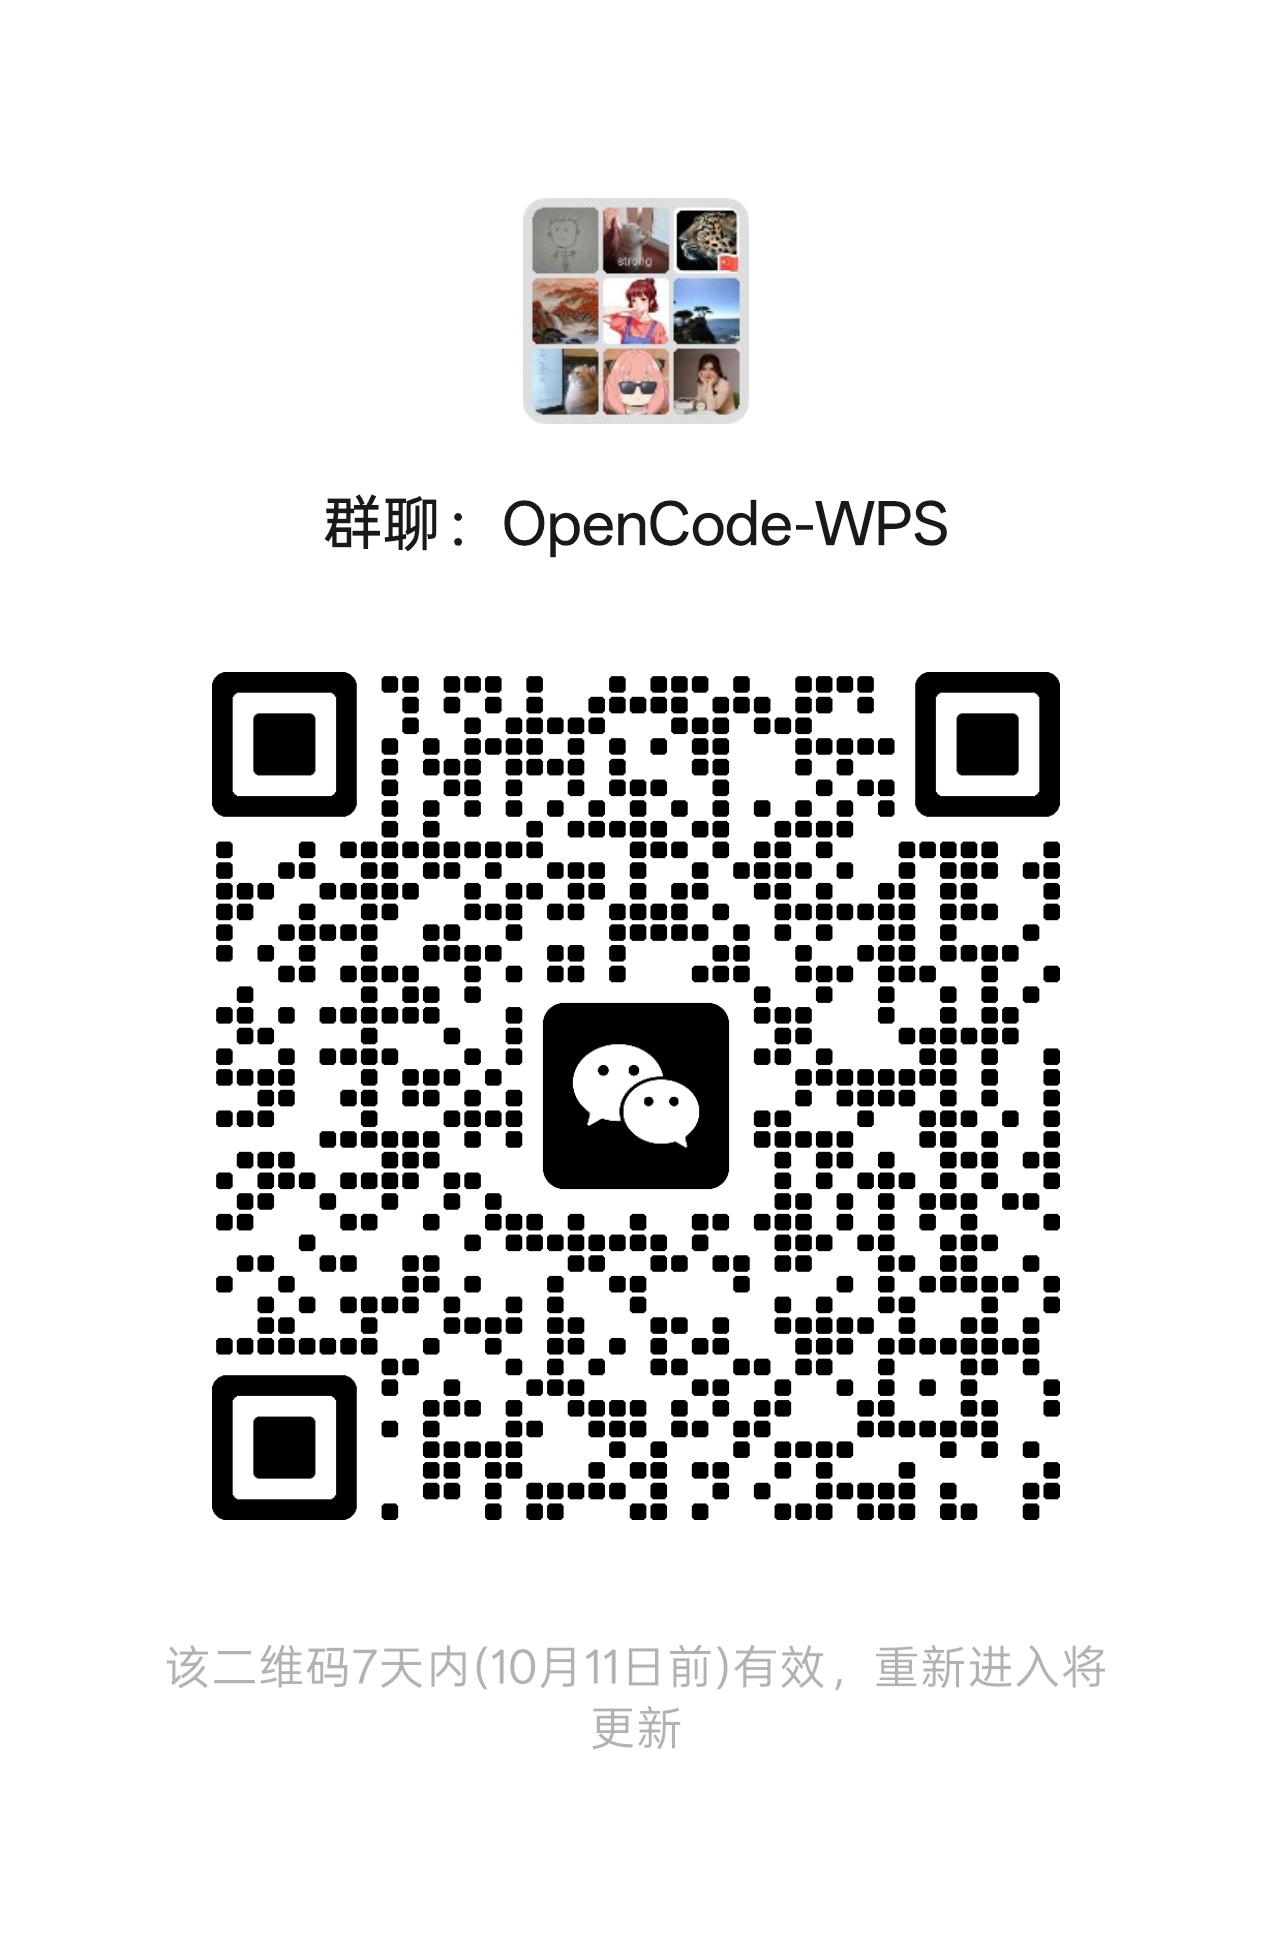
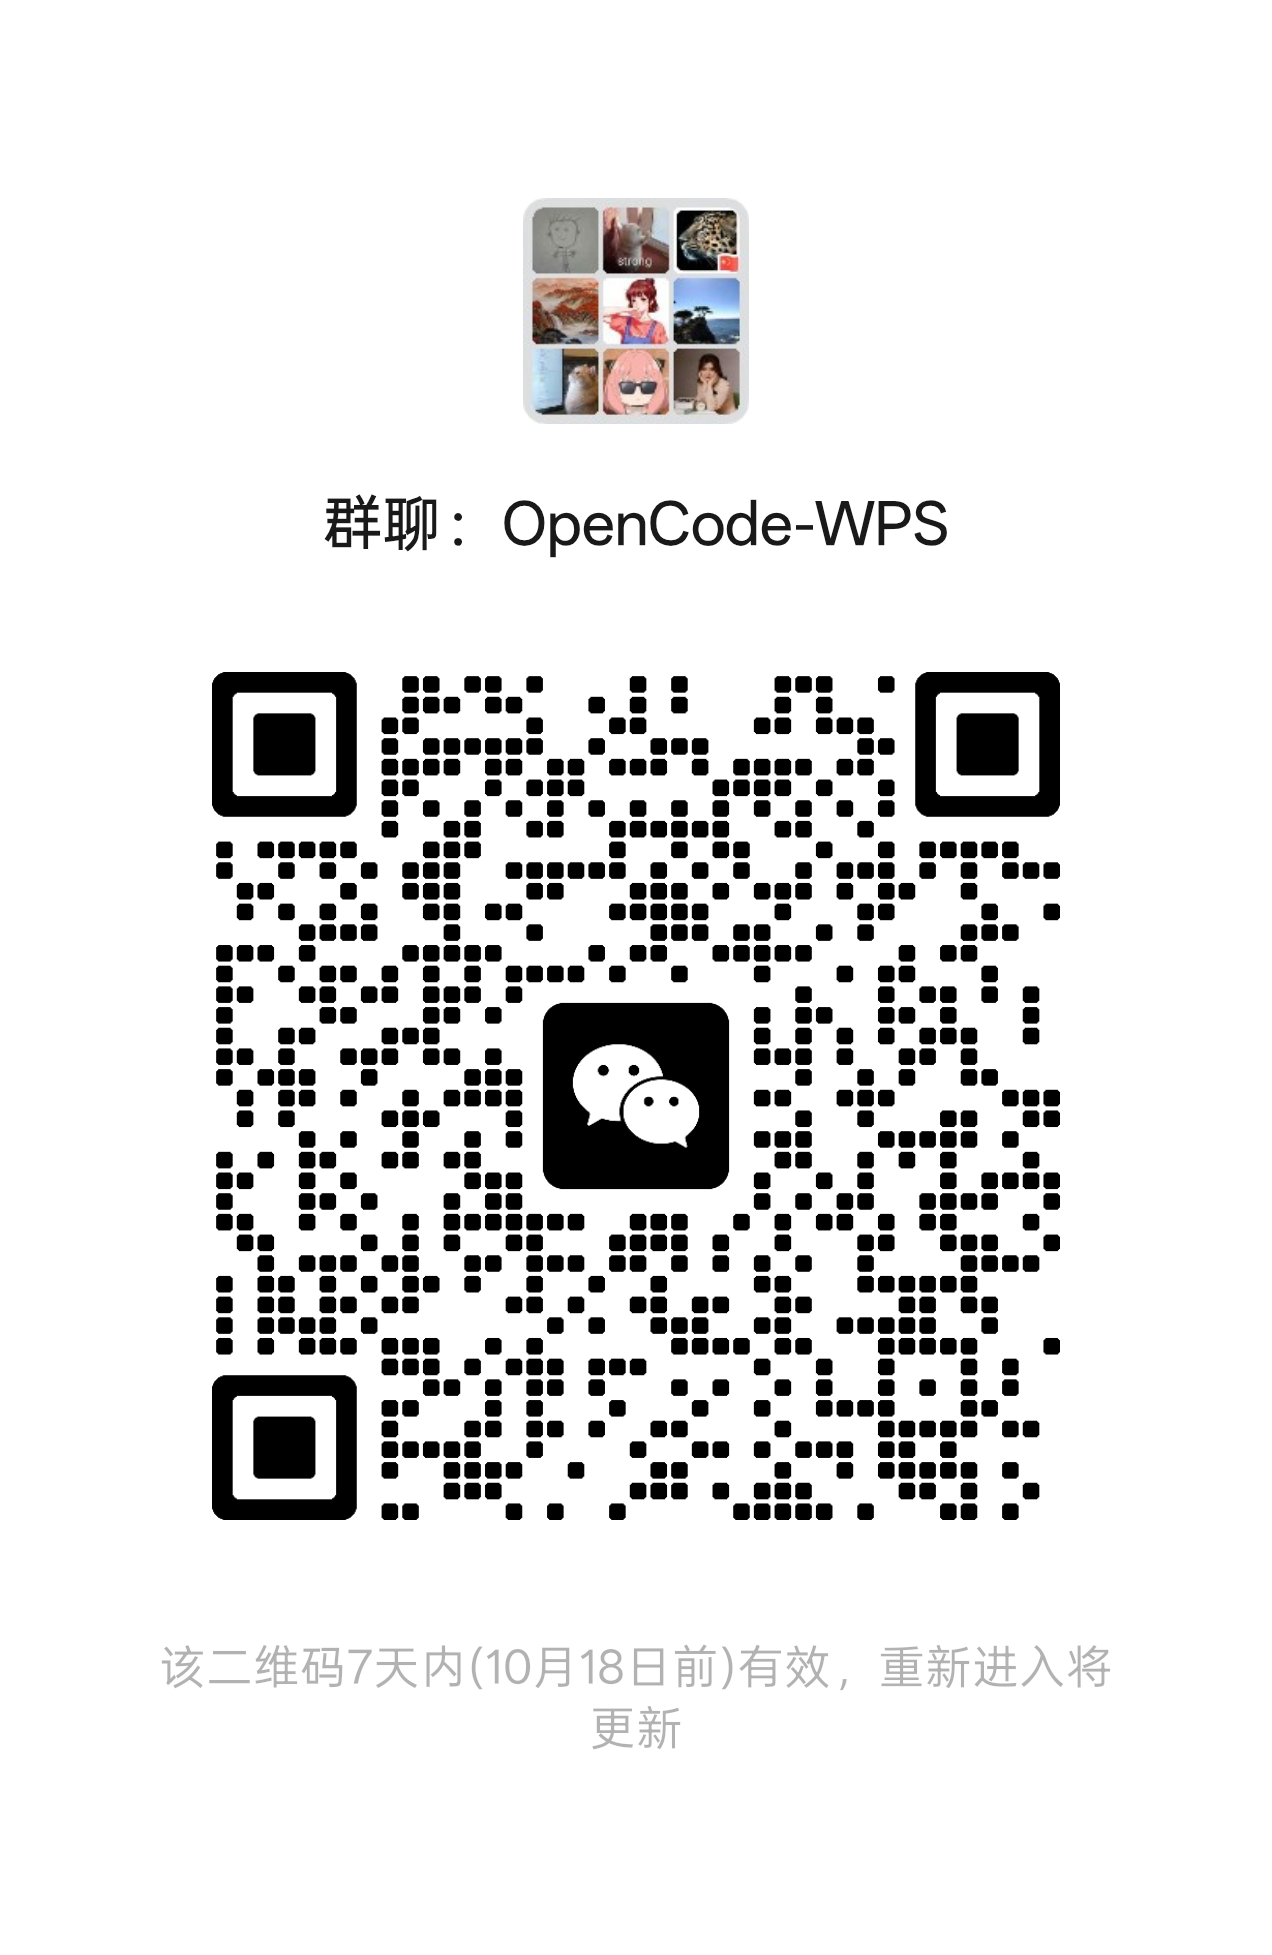
sync: 同步 cnb/main 内容（不含 tar.gz 大文件）

Changed region(s): [[0.1533, 0.3432, 0.8278, 0.7801], [0.1226, 0.8425, 0.6439, 0.8737], [0.7052, 0.8425, 0.8892, 0.8737]]

diff --git a/README.md b/README.md
@@ -111,7 +111,7 @@ Win: PowerShell COM 桥接  /  Mac·Linux: HTTP 轮询 (反向轮询插件)
 
 <img src="docs/assets/wechat-group.png" alt="OpenCode-WPS 微信交流群" width="300">
 
-> 当前二维码有效期至 **2026-10-11**（二维码不定期更新）。如二维码过期，请提交 [Issue](https://github.com/lnxsun/opencode-wps/issues) 联系维护者。
+> 当前二维码有效期至 **2026-10-18**（二维码不定期更新）。如二维码过期，请提交 [Issue](https://github.com/lnxsun/opencode-wps/issues) 联系维护者。
 
 ## License
 
